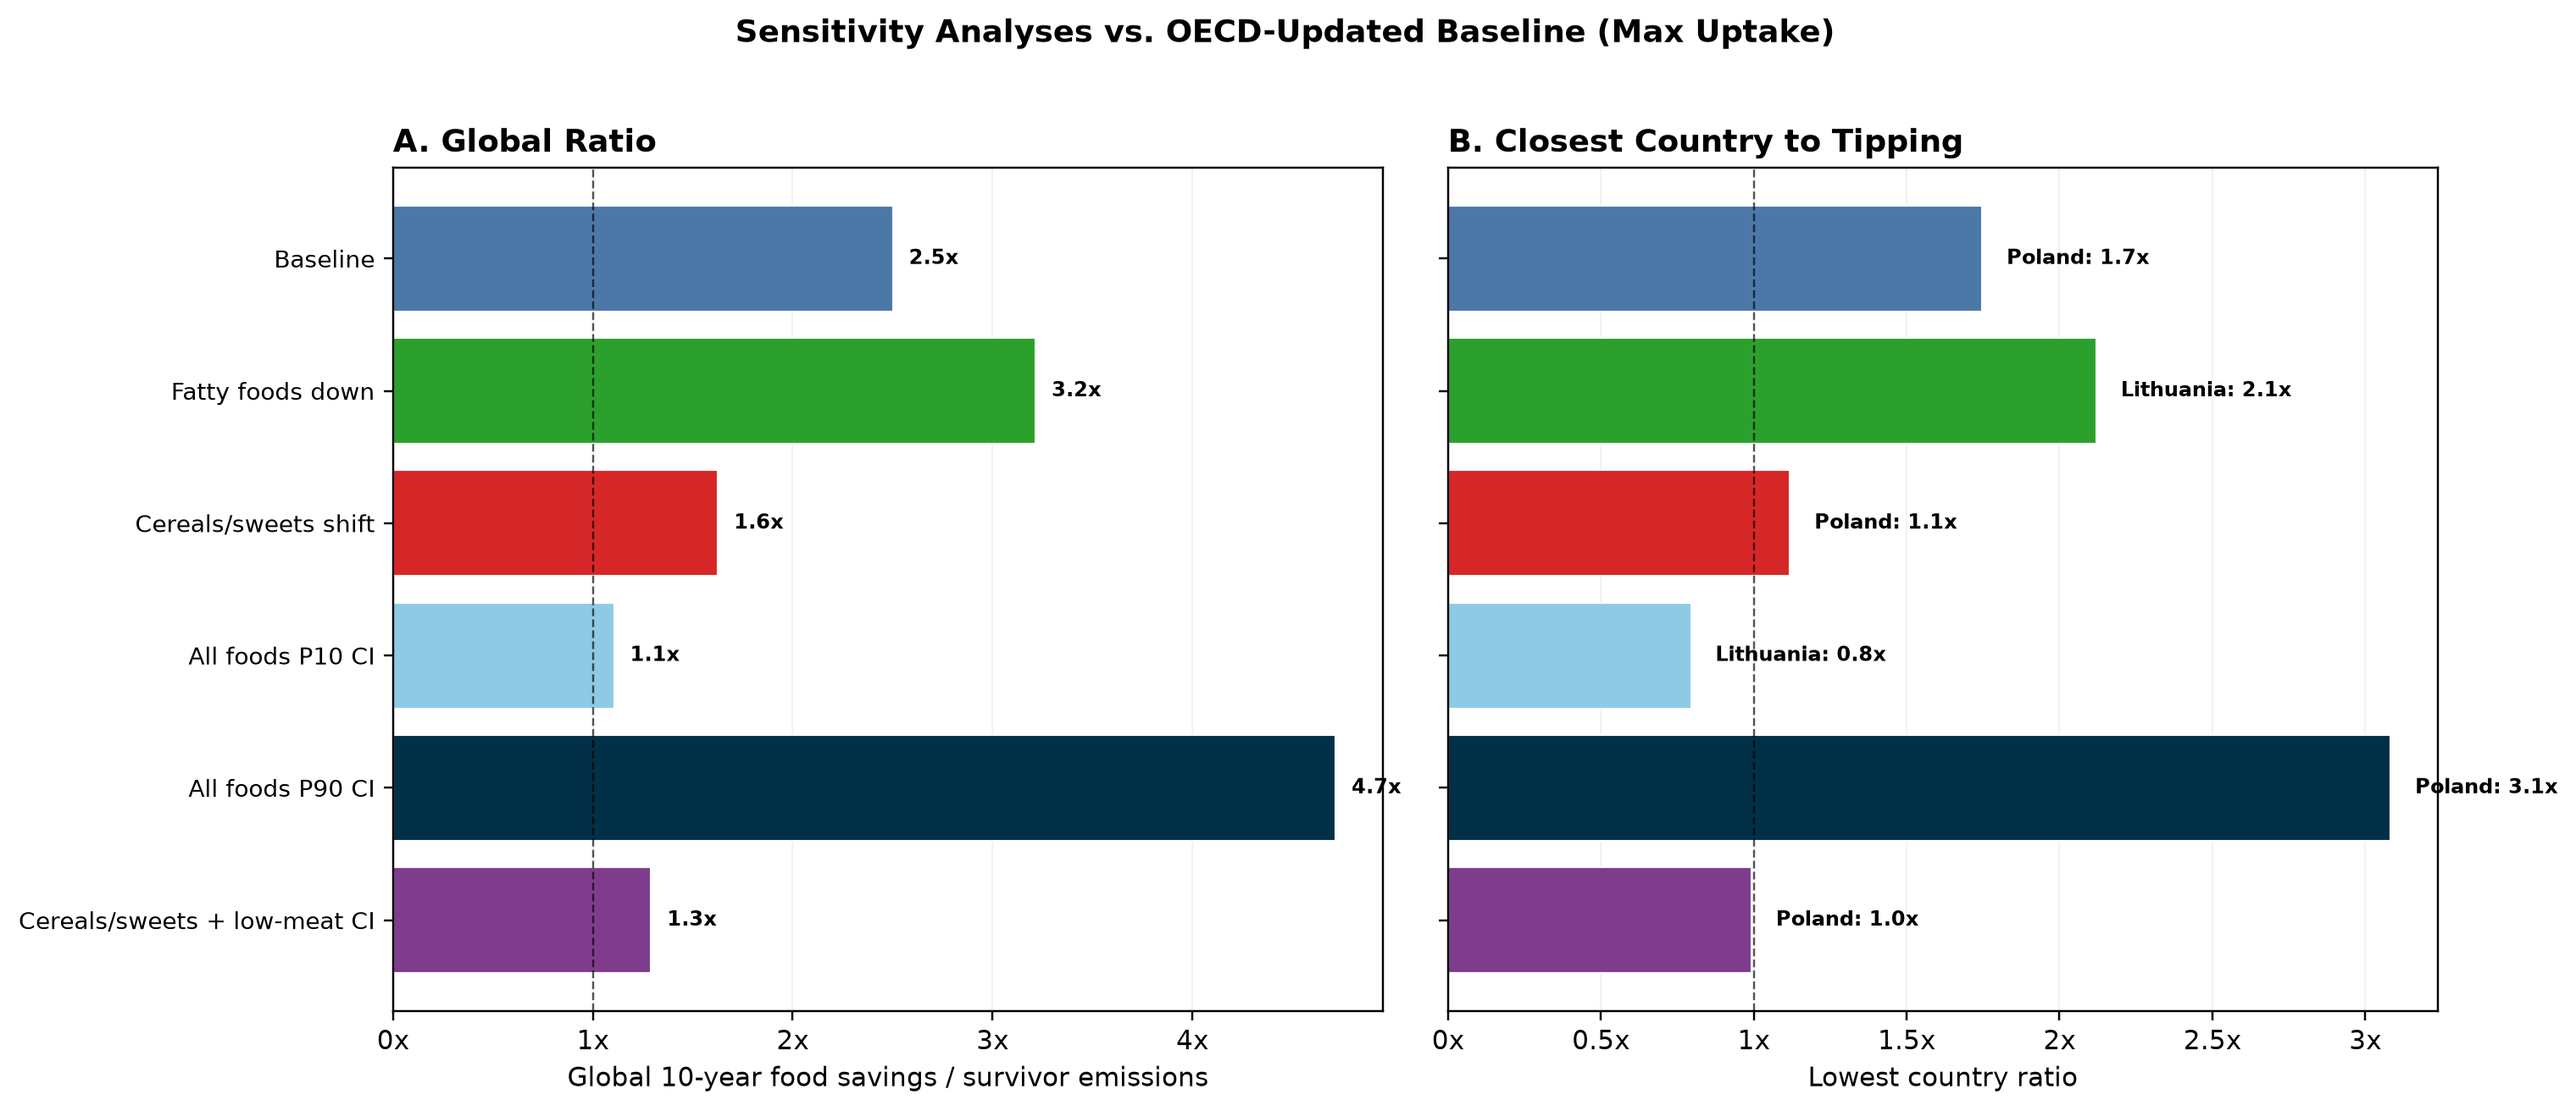
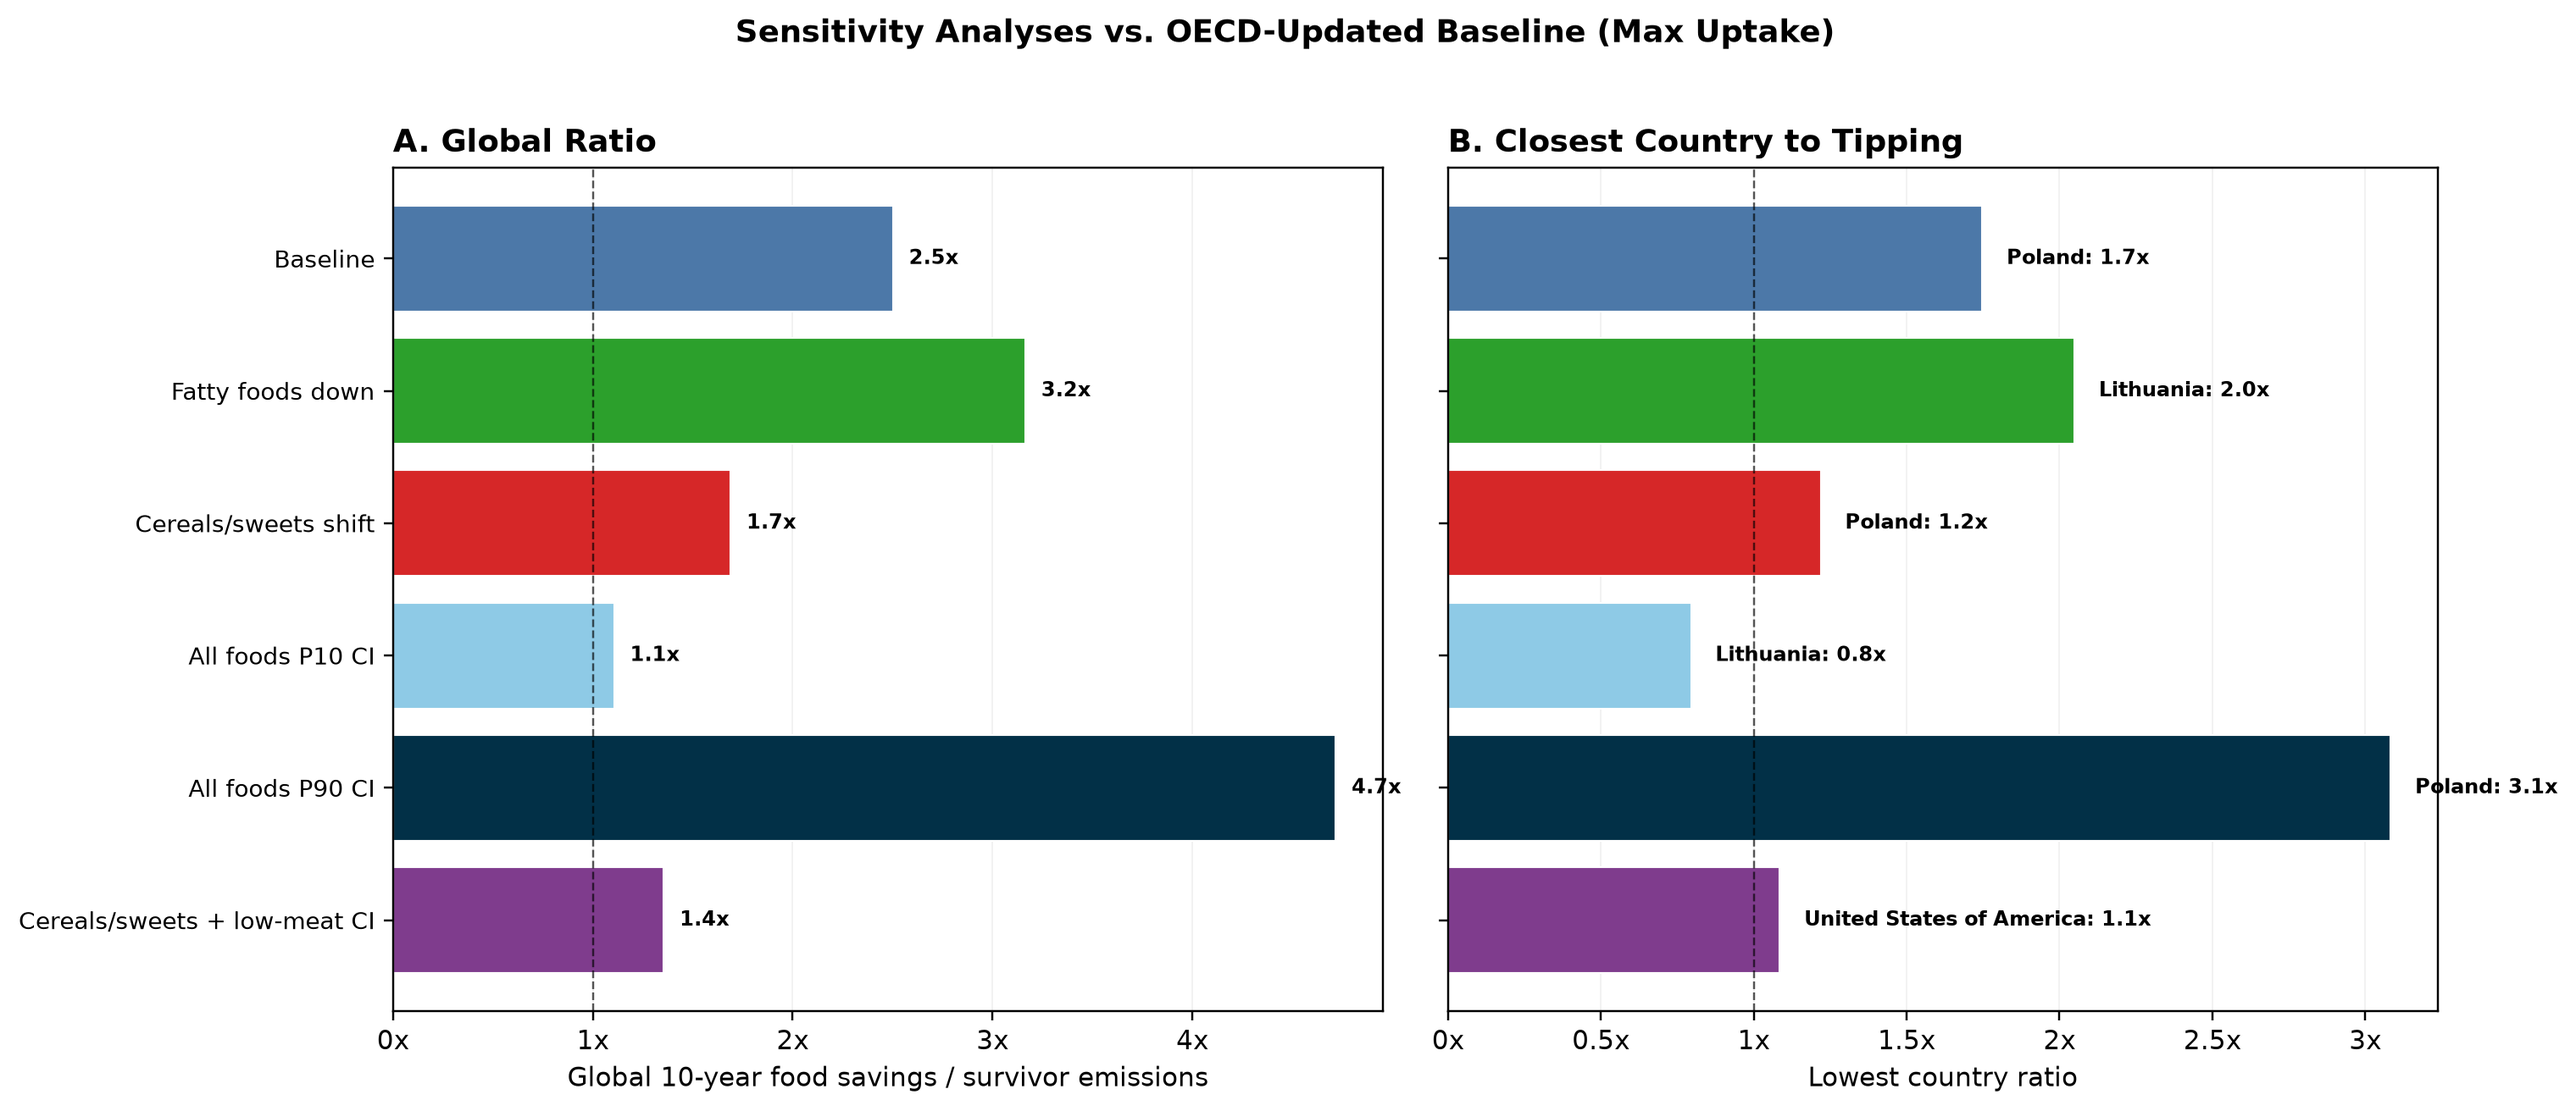
Fix aggregate double-count in load_kcal_shares' calorie-share weights
load_kcal_shares() builds the country x food-group calorie shares used to
calibrate the diet-scenario multipliers, but summed FAOSTAT parent aggregates
alongside their own component items. Dairy and Eggs have only one mapped row
each and so were counted once, while the other seven food groups included
parent totals in addition to their components and were approximately
double-counted. That understated the relative calorie shares of Dairy and
Eggs -- Dairy by about 7.4 percentage points on average -- so the calibration
preserved calories only under the distorted shares. Evaluated on the corrected
shares, the calorie-weighted average multiplier for fatty_food_down came out
at about 1.04 (up to 1.077) rather than the intended 1.0, over-crediting food
savings.

The fix applies the same AGGREGATE_ITEMS exclusion the tonnage step already
uses, unconditionally: the bug toggles were removed from this branch
deliberately, and including parent totals is never correct behaviour.

Yimin found this during his independent review and fixed it on
yimin_validation, where it was threaded through the exclude_aggregates toggle.
His branch predates the consolidation of compute_food_savings and
compute_food_savings_diet, so this is the equivalent change to the merged
function rather than a cherry-pick.

Baseline, P10 and P90 are unaffected -- they use the uniform shock and never
call load_kcal_shares. Verified empirically rather than by inspection: with
[…]

diff --git a/data_visualization/pipeline.py b/data_visualization/pipeline.py
@@ -80,6 +80,9 @@ def load_kcal_shares(countries_in_scope) -> pd.DataFrame:
     -------
     DataFrame with columns: ISO, final_food_group, kcal_share
         Shares sum to 1.0 per ISO.  Countries with no kcal data are absent.
+
+    Parent-level aggregates are excluded, as in the tonnage step, so the
+    shares are not distorted in favour of the groups that have a parent item.
     """
     norm = pd.read_csv(
         ROOT / "Food data" / "FoodBalanceSheets_E_All_Data_(Normalized)"
@@ -94,6 +97,13 @@ def load_kcal_shares(countries_in_scope) -> pd.DataFrame:
         & (kcal["Element"] == "Food supply (kcal/capita/day)")
         & (kcal["ISO"].isin(countries_in_scope))
     ]
+    # Drop parent-level aggregate items before grouping, for the same reason the
+    # tonnage step does: the Food Balance Sheets carry both parents and their
+    # components, so summing both double-counts every group that has a parent.
+    # Dairy and Eggs have no parent item and would be counted once while the
+    # other seven groups were counted twice, understating their calorie shares
+    # and leaving the calibrated multipliers no longer averaging to 1.
+    kcal = kcal[~kcal["Item"].isin(AGGREGATE_ITEMS)]
     kcal = pd.merge(
         kcal,
         mapping.set_index("fbs_group")[["final_food_group"]],
